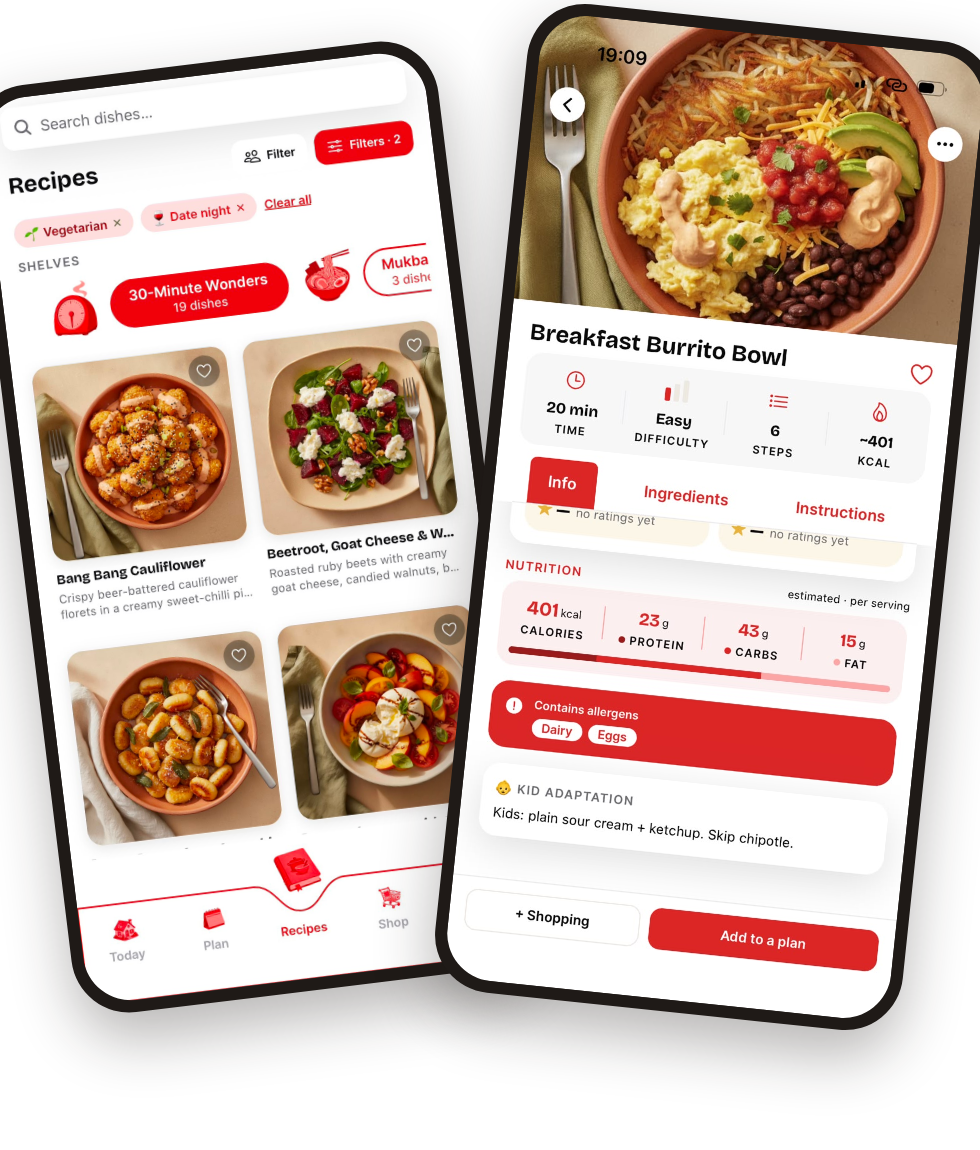
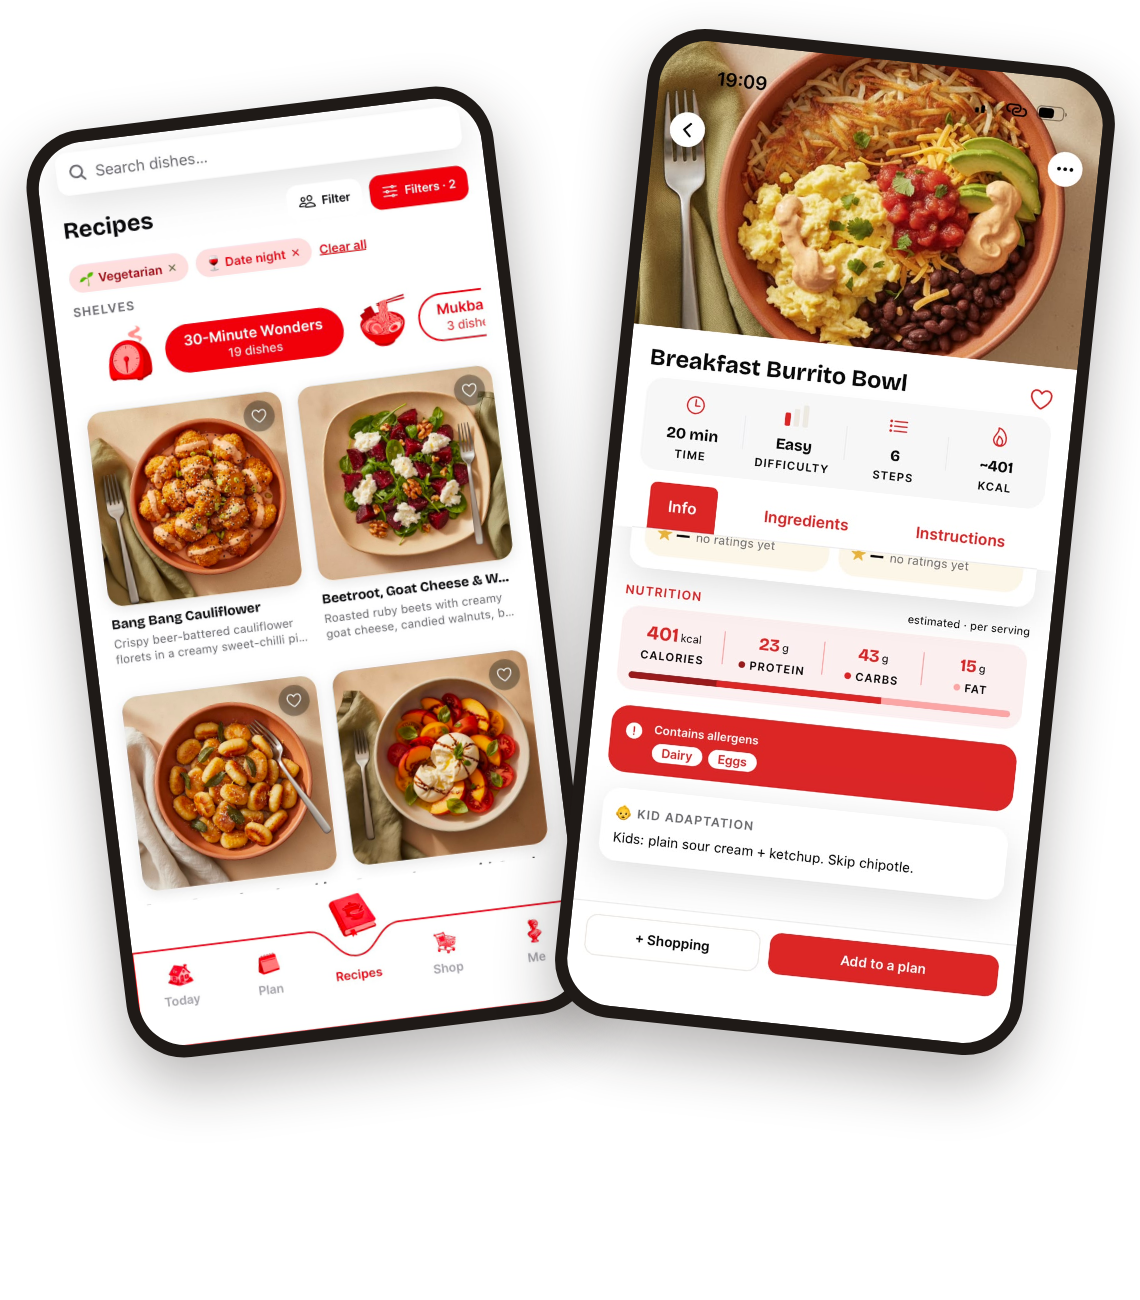
Fan re-render (no clipped corners), scope topnav (footer white line), floating phone animation

diff --git a/index.html b/index.html
@@ -46,7 +46,7 @@
     .hand { font-family: Caveat, cursive; font-size: 24px; font-weight: 600; color: var(--ink); line-height: 1.15; }
 
     /* Nav */
-    nav { position: sticky; top: 0; z-index: 50; background: rgba(255,255,255,.94); backdrop-filter: blur(8px); border-bottom: 1px solid rgba(0,0,0,.04); }
+    .topnav { position: sticky; top: 0; z-index: 50; background: rgba(255,255,255,.94); backdrop-filter: blur(8px); border-bottom: 1px solid rgba(0,0,0,.04); }
     .nav-inner { display: flex; align-items: center; justify-content: space-between; height: 64px; }
     .nav-inner img { height: 34px; }
     .nav-btn { background: var(--crimson); color: #fff; text-decoration: none; font-weight: 700; font-size: 13px; letter-spacing: .08em; text-transform: uppercase; padding: 10px 22px; border-radius: 8px; }
@@ -104,6 +104,18 @@
     .single-phone { width: 300px; }
     .fan2 { width: 500px; }
 
+    /* Gentle float on phone visuals */
+    @media (prefers-reduced-motion: no-preference) {
+      @keyframes floaty { 0%, 100% { transform: translateY(0); } 50% { transform: translateY(-14px); } }
+      .hero-phone, .single-phone, .fan2 { animation: floaty 6s ease-in-out infinite; }
+      .step-col img { animation: floaty 5.2s ease-in-out infinite; }
+      .step-col:nth-child(2) img { animation-delay: .9s; }
+      .step-col:nth-child(3) img { animation-delay: 1.8s; }
+      .float-dish { animation: floaty 7s ease-in-out infinite; }
+      .fd2 { animation-delay: 1.2s; }
+      .fd3 { animation-delay: 2.2s; }
+    }
+
     footer { background: var(--crimson-deep); padding: 32px 24px; text-align: center; font-size: 13.5px; color: rgba(255,255,255,.85); }
     footer a { color: #fff; text-decoration: none; margin: 0 10px; font-weight: 500; }
     footer a:hover { text-decoration: underline; }
@@ -132,7 +144,7 @@
 </head>
 <body>
 
-  <nav>
+  <nav class="topnav">
     <div class="wrap nav-inner">
       <img src="/logo.png" alt="Yumvote" />
       <a class="nav-btn" href="#download">Download</a>
